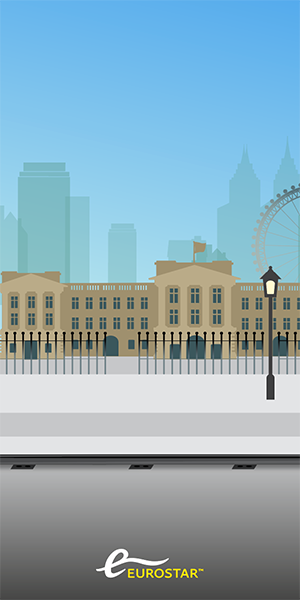
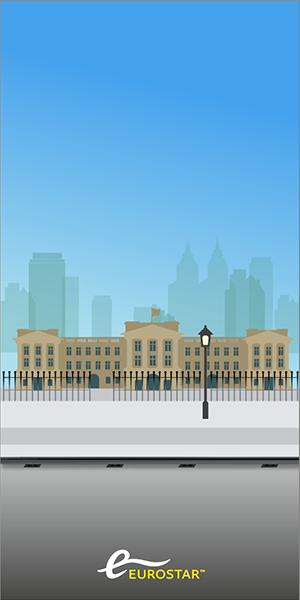
Ocean amends

diff --git a/Eurostar/public/Guard/300x600/js/banner.animation.js b/Eurostar/public/Guard/300x600/js/banner.animation.js
@@ -11,7 +11,7 @@ Banner.prototype.start = function () {
   this.bannerHeight = this.banner.offsetHeight;
 
   // Image array for preloading
-  this.images = ['images/logo.png', 'images/blue_bkg.png', 'images/train.png', 'images/scene1_bkg.png', 'images/scene1_clouds.png', 'images/scene1_bus.png', 'images/copy1.png', 'images/scene2_clouds.png', 'images/scene2_bkg.png', 'images/scene2_plane.png', 'images/scene2_boat.png', 'images/scene2_fish.png', 'images/copy2.png', 'images/scene3_bkg.png', 'images/scene3_clouds.png', 'images/scene3_balloon.png', 'images/scene3_bike.png', 'images/copy3.png', 'images/scene4_bkg.png', 'images/scene4_line1.png', 'images/scene4_line2.png', 'images/copy4.png', 'images/scene5_price.png', 'images/cta.png', 'images/copy5.png'];
+  this.images = ['images/logo.png', 'images/blue_bkg.png', 'images/train.png', 'images/scene1_bkg.png', 'images/scene1_clouds.png', 'images/scene1_hut.png', 'images/scene1_man.png', 'images/scene1_wheel.png', 'images/copy1.png', 'images/scene2_clouds.png', 'images/scene2_bkg.png', 'images/scene2_plane.png', 'images/scene2_boat.png', 'images/scene2_fish.png', 'images/copy2.png', 'images/scene4_bkg.png', 'images/scene4_line1.png', 'images/scene4_line2.png', 'images/copy4.png', 'images/scene5_price.png', 'images/cta.png', 'images/copy5.png'];
 
   var _this = this;
   this.preloadImages(this.images, function () {
@@ -51,8 +51,16 @@ Banner.prototype.createElements = function () {
     backgroundImage: 'images/scene1_clouds.png',
     parent: this.banner
   });
-  this.scene1_bus = this.smartObject({
-    backgroundImage: 'images/scene1_bus.png',
+  this.scene1_hut = this.smartObject({
+    backgroundImage: 'images/scene1_hut.png',
+    parent: this.banner
+  });
+  this.scene1_man = this.smartObject({
+    backgroundImage: 'images/scene1_man.png',
+    parent: this.banner
+  });
+  this.scene1_wheel = this.smartObject({
+    backgroundImage: 'images/scene1_wheel.png',
     parent: this.banner
   });
   this.scene2_bkg = this.smartObject({
@@ -77,26 +85,6 @@ Banner.prototype.createElements = function () {
   });
   this.copy2 = this.smartObject({
     backgroundImage: 'images/copy2.png',
-    parent: this.banner
-  });
-  this.scene3_bkg = this.smartObject({
-    backgroundImage: 'images/scene3_bkg.png',
-    parent: this.banner
-  });
-  this.scene3_balloon = this.smartObject({
-    backgroundImage: 'images/scene3_balloon.png',
-    parent: this.banner
-  });
-  this.scene3_clouds = this.smartObject({
-    backgroundImage: 'images/scene3_clouds.png',
-    parent: this.banner
-  });
-  this.scene3_bike = this.smartObject({
-    backgroundImage: 'images/scene3_bike.png',
-    parent: this.banner
-  });
-  this.copy3 = this.smartObject({
-    backgroundImage: 'images/copy3.png',
     parent: this.banner
   });
   this.scene4_bkg = this.smartObject({
@@ -136,12 +124,14 @@ Banner.prototype.setup = function () {
   this.logo.center();
   this.logo.set({ zIndex: 15 });
   this.blue_bkg.set({ left: -298, top: 0, zIndex: 14 });
-  this.train.set({ top: 412, left: -14000, zIndex: 14 });
+  this.train.set({ top: 400, left: -14000, zIndex: 14 });
 
-  //SCENE 1 LONDON 
-  this.scene1_bkg.set({ zIndex: 12 });
-  this.scene1_clouds.set({ left: 200, zIndex: 13 });
-  this.scene1_bus.set({ top: 320, left: 400, zIndex: 13 });
+  //SCENE 1 ZOOMED IN LONDON 
+  this.scene1_bkg.set({ scale: 1.4, zIndex: 12 });
+  this.scene1_clouds.set({ scale: 1.4, top: 200, left: 10, zIndex: 13 });
+  this.scene1_hut.set({ scale: 1.4, top: 320, left: 100, zIndex: 13 });
+  this.scene1_man.set({ scale: 1.4, top: 370, left: 120, zIndex: 13 });
+  this.scene1_wheel.set({ scale: 1.4, top: 150, left: 150, zIndex: 13 });
   this.copy1.set({ autoAlpha: 0, top: 15, left: 70, zIndex: 13 });
 
   //SCENE 2 OCEAN
@@ -151,14 +141,6 @@ Banner.prototype.setup = function () {
   this.scene2_boat.set({ left: 120, top: 245, zIndex: 11 });
   this.scene2_fish.set({ left: 10, top: 300, zIndex: 11 });
   this.copy2.set({ autoAlpha: 0, top: 300, left: 70, zIndex: 11 });
-
-  //SCENE 3 PARIS
-
-  this.scene3_bkg.set({ zIndex: 8 });
-  this.scene3_balloon.set({ top: 150, left: 155, zIndex: 9 });
-  this.scene3_bike.set({ top: 330, left: 70, zIndex: 9 });
-  this.scene3_clouds.set({ top: 200, left: 200, zIndex: 9 });
-  this.copy3.set({ top: 54, left: 50, zIndex: 9 });
 
   //SCENE 4 LONDON TO PARIS
 
@@ -190,16 +172,13 @@ Banner.prototype.animate = function () {
     _this.timeline.gotoAndPlay('start');
   }
 
-  this.timeline = new TimelineMax({ repeat: 2 }).addLabel('start', 0).add([TweenMax.to(this.logo, 1, { left: 700, delay: 1 }), TweenMax.to(this.blue_bkg, 2, { left: 700, delay: 1 }), TweenMax.to(this.train, 9, { left: 10, delay: 1.5, ease: Power2.easeOut, y: 0 }),
+  this.timeline = new TimelineMax({ repeat: 2 }).addLabel('start', 0).add([TweenMax.to(this.logo, 1, { left: 700, delay: 1 }), TweenMax.to(this.blue_bkg, 2, { left: 700, delay: 1 }), TweenMax.to(this.train, 9, { left: 10, delay: 4, ease: Power2.easeOut, y: 0 }),
 
-  //SCENE 1 LONDON 
-  TweenMax.to(this.scene1_clouds, 8, { left: -50, delay: 1 }), TweenMax.to(this.scene1_bus, 4, { left: -150, delay: 1 }), TweenMax.to(this.copy1, 1, { autoAlpha: 1, delay: 1 }), TweenMax.to(this.copy1, 1, { autoAlpha: 0, delay: 4 }), TweenMax.to(this.scene1_bkg, 1, { autoAlpha: 0, delay: 4 }), TweenMax.to(this.scene1_clouds, 1, { autoAlpha: 0, delay: 4 }),
+  //SCENE 1 ZOOMED IN LONDON
+  TweenMax.to(this.scene1_bkg, 4, { scale: 1, delay: 2 }), TweenMax.to(this.scene1_clouds, 8, { scale: 1, delay: 2 }), TweenMax.to(this.scene1_hut, 4, { scale: 1, delay: 2 }), TweenMax.to(this.scene1_man, 4, { scale: 1, delay: 2 }), TweenMax.to(this.scene1_wheel, 4, { scale: 1, delay: 2 }), TweenMax.to(this.scene1_clouds, 8, { left: -50, delay: 1 }), TweenMax.to(this.copy1, 1, { autoAlpha: 1, delay: 1 }), TweenMax.to(this.copy1, 1, { autoAlpha: 0, delay: 4 }), TweenMax.to(this.scene1_bkg, 1, { autoAlpha: 0, delay: 4 }), TweenMax.to(this.scene1_clouds, 1, { autoAlpha: 0, delay: 4 }),
 
   //SCENE 2 OCEAN
   TweenMax.to(this.scene2_clouds, 8, { left: -50, delay: 4.5 }), TweenMax.to(this.scene2_plane, 4, { x: 500, y: -100, top: 0, delay: 5 }), TweenMax.to(this.scene2_boat, 7, { x: 50, delay: 4.5 }), TweenMax.to(this.scene2_fish, 5, { x: 50, delay: 4.5 }), TweenMax.to(this.copy2, 1, { autoAlpha: 1, delay: 5 }), TweenMax.to(this.copy2, 1, { autoAlpha: 0, delay: 7 }), TweenMax.to(this.scene2_bkg, 1, { autoAlpha: 0, delay: 7 }), TweenMax.to(this.scene2_boat, 1, { autoAlpha: 0, delay: 7 }), TweenMax.to(this.scene2_fish, 1, { autoAlpha: 0, delay: 7 }), TweenMax.to(this.scene2_clouds, 1, { autoAlpha: 0, delay: 7 }),
-
-  //SCENE 3 PARIS
-  TweenMax.to(this.scene3_clouds, 8, { left: -50, delay: 7 }), TweenMax.to(this.scene3_balloon, 9, { y: -100, delay: 7 }), TweenMax.to(this.scene3_bike, 7, { x: -150, delay: 7 }), TweenMax.to(this.scene3_bkg, 1, { autoAlpha: 0, delay: 10 }), TweenMax.to(this.scene3_balloon, 1, { autoAlpha: 0, delay: 10 }), TweenMax.to(this.copy3, 1, { autoAlpha: 0, delay: 10 }), TweenMax.to(this.scene3_clouds, 1, { autoAlpha: 0, delay: 10 }), TweenMax.to(this.train, 0.5, { autoAlpha: 0, delay: 10 }),
 
   //SCENE 4 LONDON TO PARIS
   TweenMax.to(this.scene4_line1, 1, { y: -35, delay: 10.5 }), TweenMax.to(this.scene4_line2, 1, { y: 35, delay: 10.5 }), TweenMax.to(this.copy4, 1, { autoAlpha: 1, scale: 1, delay: 11.5 }), TweenMax.to(this.scene4_line1, 1, { autoAlpha: 0, delay: 14 }), TweenMax.to(this.scene4_line2, 1, { autoAlpha: 0, delay: 14 }), TweenMax.to(this.copy4, 1, { autoAlpha: 0, delay: 14 }),

diff --git a/Eurostar/public/Ocean/300x600/js/banner.animation.js b/Eurostar/public/Ocean/300x600/js/banner.animation.js
@@ -141,7 +141,7 @@ Banner.prototype.setup = function () {
   //SCENE 1 LONDON 
   this.scene1_bkg.set({ zIndex: 12 });
   this.scene1_clouds.set({ left: 200, zIndex: 13 });
-  this.scene1_bus.set({ top: 320, left: 400, zIndex: 13 });
+  this.scene1_bus.set({ top: 320, left: 100, zIndex: 13 });
   this.copy1.set({ autoAlpha: 0, top: 15, left: 70, zIndex: 13 });
 
   //SCENE 2 OCEAN
@@ -193,13 +193,13 @@ Banner.prototype.animate = function () {
   this.timeline = new TimelineMax({ repeat: 2 }).addLabel('start', 0).add([TweenMax.to(this.logo, 1, { left: 700, delay: 1 }), TweenMax.to(this.blue_bkg, 2, { left: 700, delay: 1 }), TweenMax.to(this.train, 9, { left: 10, delay: 1.5, ease: Power2.easeOut, y: 0 }),
 
   //SCENE 1 LONDON 
-  TweenMax.to(this.scene1_clouds, 8, { left: -50, delay: 1 }), TweenMax.to(this.scene1_bus, 4, { left: -150, delay: 1 }), TweenMax.to(this.copy1, 1, { autoAlpha: 1, delay: 1 }), TweenMax.to(this.copy1, 1, { autoAlpha: 0, delay: 4 }), TweenMax.to(this.scene1_bkg, 1, { autoAlpha: 0, delay: 4 }), TweenMax.to(this.scene1_clouds, 1, { autoAlpha: 0, delay: 4 }),
+  TweenMax.to(this.scene1_clouds, 8, { left: -50, delay: 1 }), TweenMax.to(this.scene1_bus, 6, { left: -150, delay: 1 }), TweenMax.to(this.copy1, 1, { autoAlpha: 1, delay: 1 }), TweenMax.to(this.copy1, 1, { autoAlpha: 0, delay: 4 }), TweenMax.to(this.scene1_bkg, 1, { autoAlpha: 0, delay: 4 }), TweenMax.to(this.scene1_clouds, 1, { autoAlpha: 0, delay: 4 }), TweenMax.to(this.scene1_bus, 1, { autoAlpha: 0, delay: 4 }),
 
   //SCENE 2 OCEAN
-  TweenMax.to(this.scene2_clouds, 8, { left: -50, delay: 4.5 }), TweenMax.to(this.scene2_plane, 4, { x: 500, y: -100, top: 0, delay: 5 }), TweenMax.to(this.scene2_boat, 7, { x: 50, delay: 4.5 }), TweenMax.to(this.scene2_fish, 5, { x: 50, delay: 4.5 }), TweenMax.to(this.copy2, 1, { autoAlpha: 1, delay: 5 }), TweenMax.to(this.copy2, 1, { autoAlpha: 0, delay: 7 }), TweenMax.to(this.scene2_bkg, 1, { autoAlpha: 0, delay: 7 }), TweenMax.to(this.scene2_boat, 1, { autoAlpha: 0, delay: 7 }), TweenMax.to(this.scene2_fish, 1, { autoAlpha: 0, delay: 7 }), TweenMax.to(this.scene2_clouds, 1, { autoAlpha: 0, delay: 7 }),
+  TweenMax.to(this.scene2_clouds, 8, { left: -50, delay: 4.5 }), TweenMax.to(this.scene2_plane, 7, { x: 500, y: -100, top: 0, delay: 5 }), TweenMax.to(this.scene2_boat, 7, { x: 50, delay: 4.5 }), TweenMax.to(this.scene2_fish, 5, { x: 50, delay: 4.5 }), TweenMax.to(this.copy2, 1, { autoAlpha: 1, delay: 5 }), TweenMax.to(this.copy2, 1, { autoAlpha: 0, delay: 7 }), TweenMax.to(this.scene2_bkg, 1, { autoAlpha: 0, delay: 7 }), TweenMax.to(this.scene2_boat, 1, { autoAlpha: 0, delay: 7 }), TweenMax.to(this.scene2_fish, 1, { autoAlpha: 0, delay: 7 }), TweenMax.to(this.scene2_clouds, 1, { autoAlpha: 0, delay: 7 }), TweenMax.to(this.scene2_plane, 1, { autoAlpha: 0, delay: 7 }),
 
   //SCENE 3 PARIS
-  TweenMax.to(this.scene3_clouds, 8, { left: -50, delay: 7 }), TweenMax.to(this.scene3_balloon, 9, { y: -100, delay: 7 }), TweenMax.to(this.scene3_bike, 7, { x: -150, delay: 7 }), TweenMax.to(this.scene3_bkg, 1, { autoAlpha: 0, delay: 10 }), TweenMax.to(this.scene3_balloon, 1, { autoAlpha: 0, delay: 10 }), TweenMax.to(this.copy3, 1, { autoAlpha: 0, delay: 10 }), TweenMax.to(this.scene3_clouds, 1, { autoAlpha: 0, delay: 10 }), TweenMax.to(this.train, 0.5, { autoAlpha: 0, delay: 10 }),
+  TweenMax.to(this.scene3_clouds, 10, { left: -50, delay: 7 }), TweenMax.to(this.scene3_balloon, 9, { y: -100, delay: 7 }), TweenMax.to(this.scene3_bike, 7, { x: -150, delay: 7 }), TweenMax.to(this.scene3_bkg, 1, { autoAlpha: 0, delay: 10 }), TweenMax.to(this.scene3_balloon, 1, { autoAlpha: 0, delay: 10 }), TweenMax.to(this.copy3, 1, { autoAlpha: 0, delay: 10 }), TweenMax.to(this.scene3_clouds, 1, { autoAlpha: 0, delay: 10 }), TweenMax.to(this.train, 0.5, { autoAlpha: 0, delay: 10 }),
 
   //SCENE 4 LONDON TO PARIS
   TweenMax.to(this.scene4_line1, 1, { y: -35, delay: 10.5 }), TweenMax.to(this.scene4_line2, 1, { y: 35, delay: 10.5 }), TweenMax.to(this.copy4, 1, { autoAlpha: 1, scale: 1, delay: 11.5 }), TweenMax.to(this.scene4_line1, 1, { autoAlpha: 0, delay: 14 }), TweenMax.to(this.scene4_line2, 1, { autoAlpha: 0, delay: 14 }), TweenMax.to(this.copy4, 1, { autoAlpha: 0, delay: 14 }),
